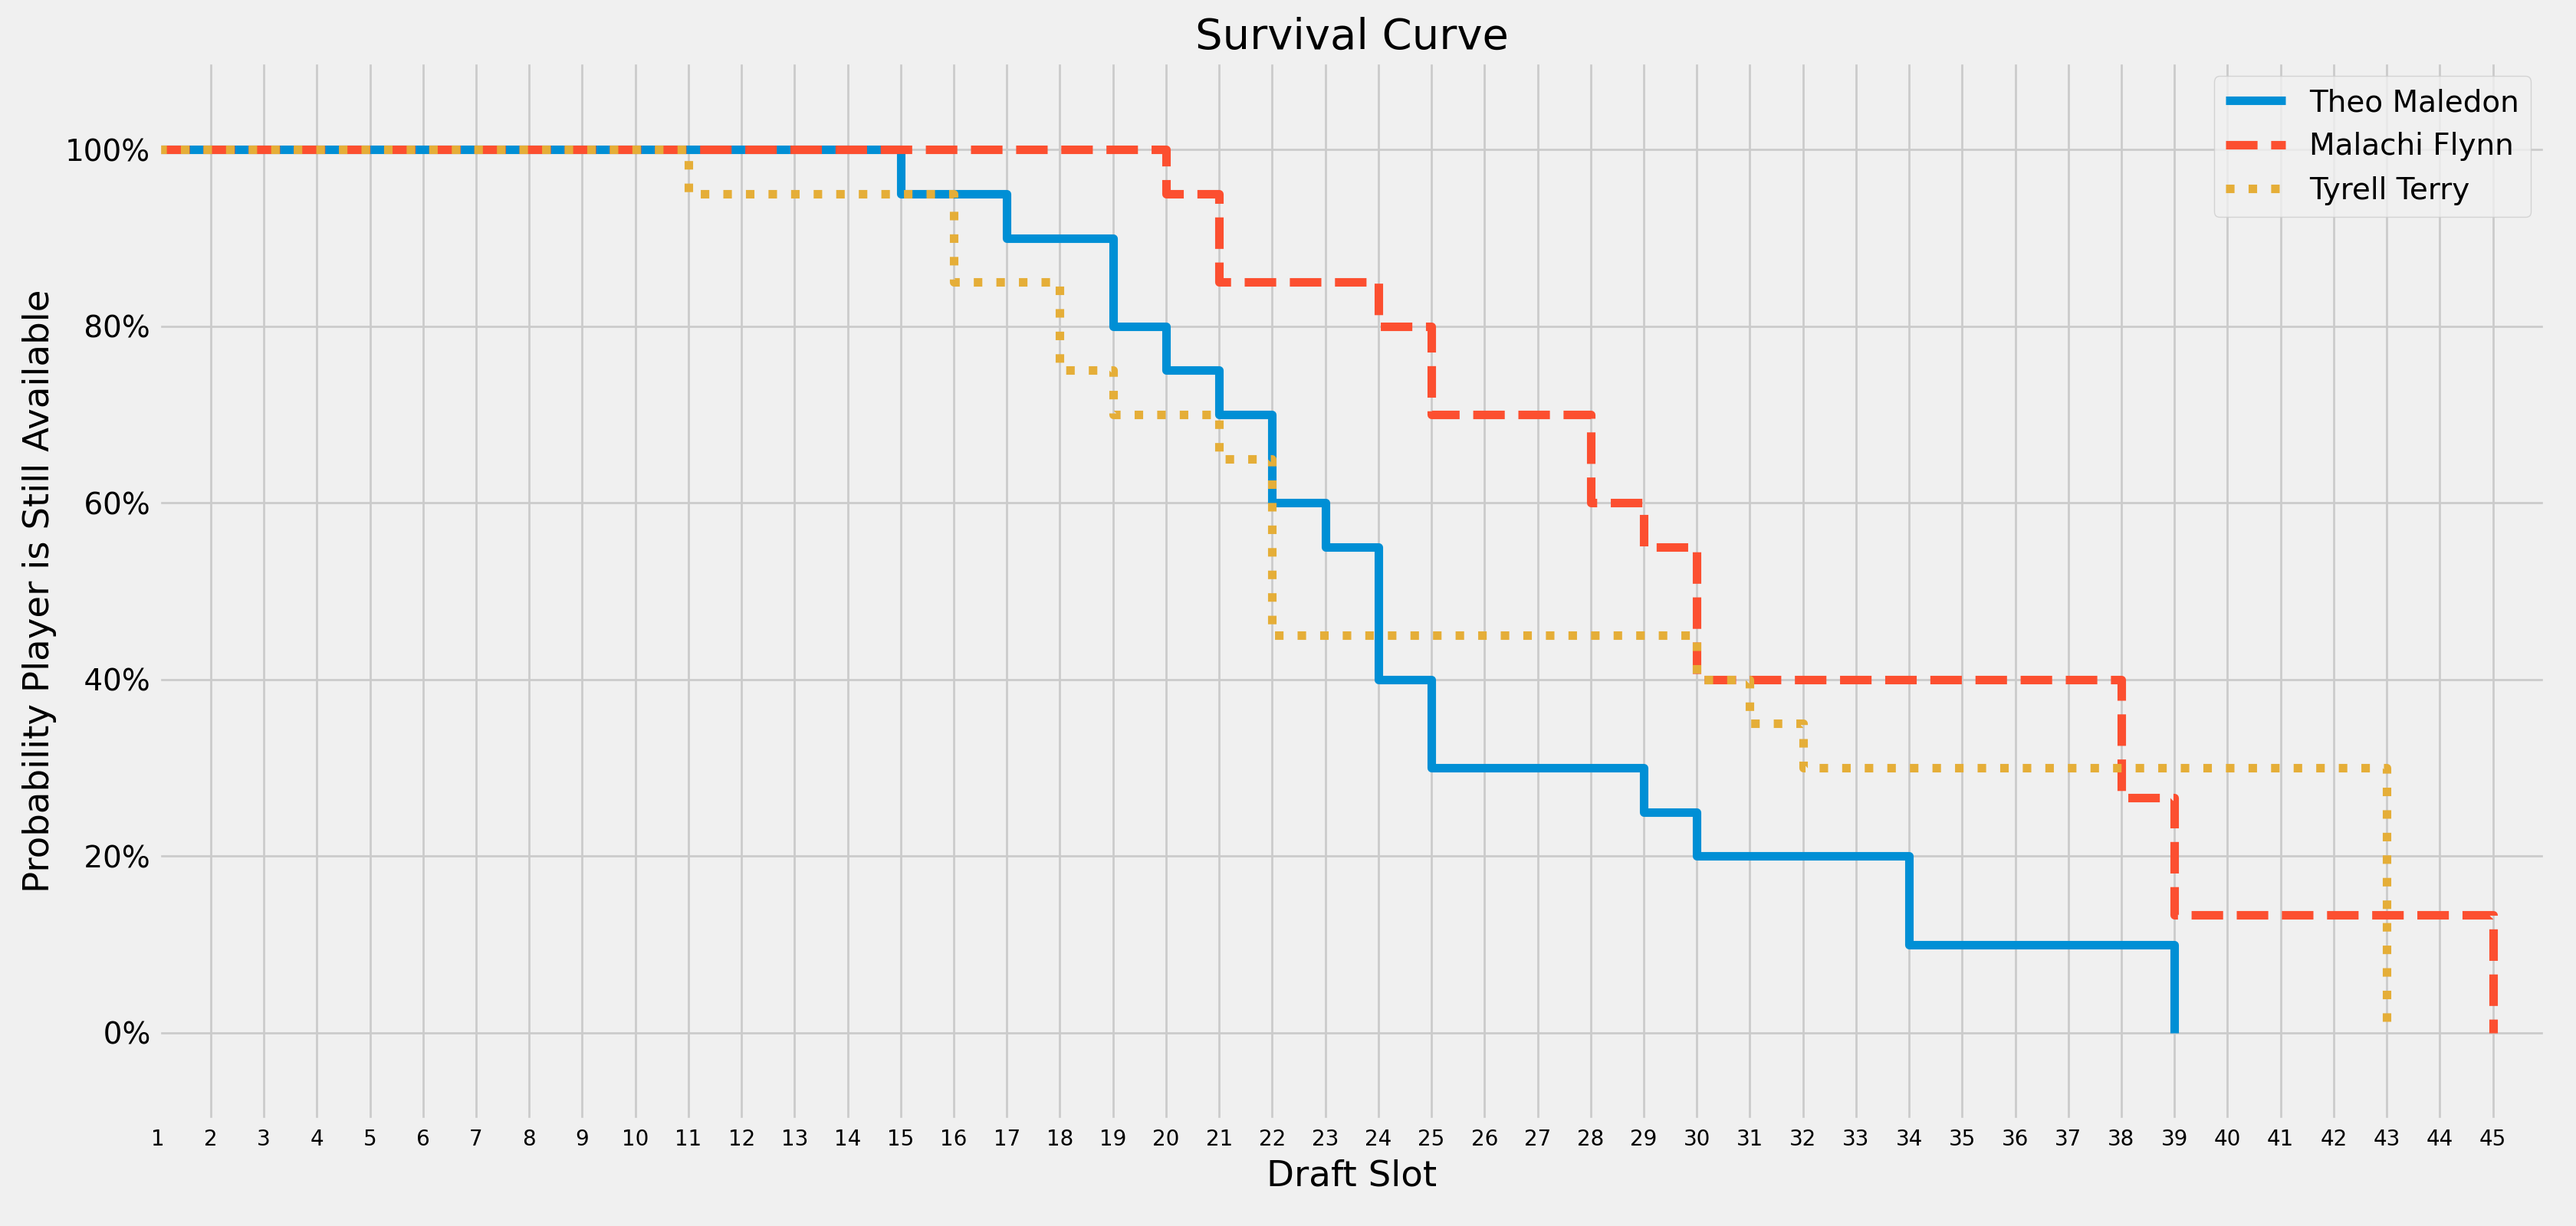
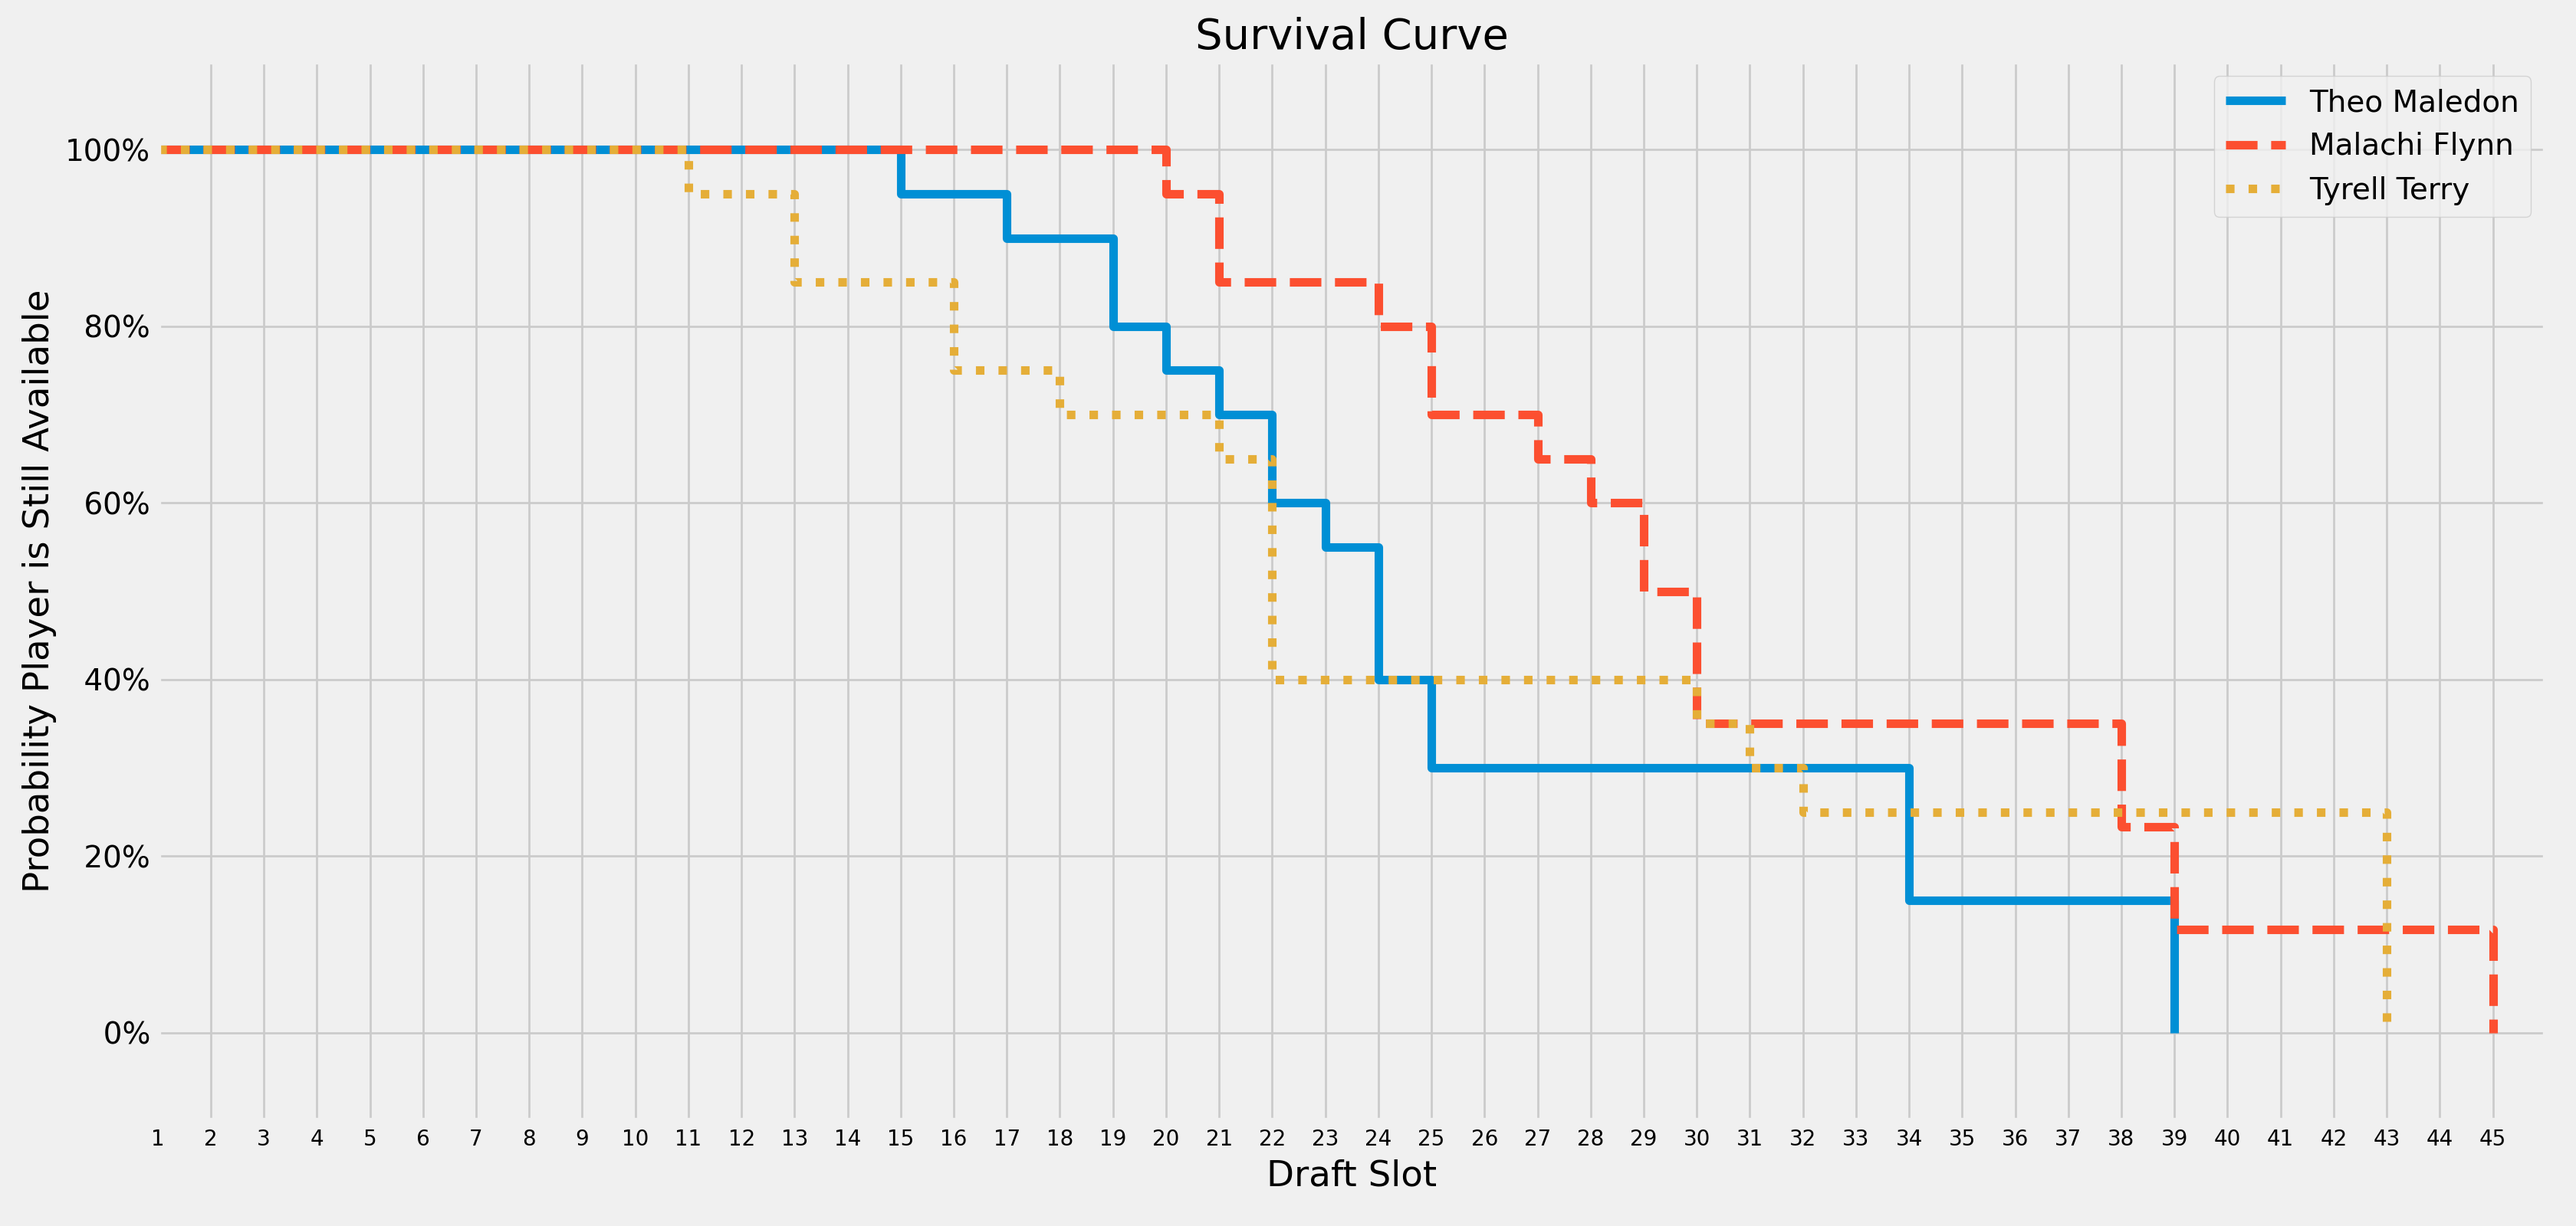
Nov 2 Update

diff --git a/scripts/survival_analysis.py b/scripts/survival_analysis.py
@@ -237,7 +237,7 @@ if __name__=='__main__':
     # Read in individual mock drafts
     babcock_hoops_df = pd.read_csv('../data/babcock_hoops.csv')
     bryan_kalbrosky_df = pd.read_csv('../data/bryan_kalbrosky.csv')
-    chad_ford_df = pd.read_csv('../data/chad_ford.csv')
+    chris_foresberg_df = pd.read_csv('../data/chris_foresberg.csv')
     chris_stone_df = pd.read_csv('../data/chris_stone.csv')
     danny_cunningham_df = pd.read_csv('../data/danny_cunningham.csv')
     gary_parrish_df = pd.read_csv('../data/gary_parrish.csv')
@@ -257,7 +257,7 @@ if __name__=='__main__':
     tankathon_df = pd.read_csv('../data/tankathon.csv')
 
     # Pre-process individual mock drafts to match names
-    mock_draft_list = [babcock_hoops_df, bryan_kalbrosky_df, chad_ford_df,
+    mock_draft_list = [babcock_hoops_df, bryan_kalbrosky_df, chris_foresberg_df,
                        chris_stone_df, danny_cunningham_df, gary_parrish_df,
                        james_ham_df, jeff_goodman_df, jeremy_woo_df,
                        jonathan_givony_df, jonathan_wasserman_df, kevin_oconnor_df,
@@ -325,7 +325,7 @@ if __name__=='__main__':
                                             index=False)
 
     # Plot an individual player's survival curve
-    plot_player('Anthony Edwards', melt_df, save=False)
+    # plot_player('Anthony Edwards', melt_df, save=False)
 
     # Save all player survival curves
     for player in melt_df['player'].unique():

diff --git a/readme.md b/readme.md
@@ -1,11 +1,11 @@
 <center> <h1>NBA Draft Survival Analysis</h1> </center>
-<center> <h3>Updated October 26, 2020</h3> </center>
+<center> <h3>Updated November 2, 2020</h3> </center>
 
 ---
 #### Motivation
 In preparation for the 2020 NBA Draft, I wanted to analyze when each prospect was likely to be selected. Compiling 20 mock drafts from various draft analysts, I created a survival analysis which calculated the probability of each prospect being available at each draft slot.
 
-As an example, the following plot illustrates the probability that Anthony Edwards is available at each draft slot. Moving from left to right on the x-axis, we observe that based on the compiled mock drafts there is ~55% probability Edwards is available at pick number 2 and ~40% probability he is available at pick number 3.
+As an example, the following plot illustrates the probability that Anthony Edwards is available at each draft slot. Moving from left to right on the x-axis, we observe that based on the compiled mock drafts there is ~55% probability Edwards is available at pick number 2 and ~35% probability he is available at pick number 3.
 
 <div style="text-align:center"><img src='plots/players/anthony_edwards.png' width=70%></div>
 
@@ -24,7 +24,7 @@ Each player's survival curve is based on information compiled from 20 mock draft
 |---|---|---|---|
 | Babcock Hoops  | Babcock Hoops  | October 5  | [Link](https://www.babcockhoops.com/mockdraft)  |
 | Bryan Kalbrosky  | Rookie Wire  | October 22  | [Link](https://therookiewire.usatoday.com/lists/2020-nba-mock-draft-all-60-picks-post-combine/)  |
-| Chad Ford  | NBA Big Board  | October 21  | [Link](https://nbabigboard.com/)  |
+| Chad Forsberg  | NBC Sports  | October 29  | [Link](https://www.nbcsports.com/boston/celtics/2020-nba-mock-draft-90-best-players-available-fit-team-needs)  |
 | Chris Stone  | Sporting News  | March 24  | [Link](https://www.sportingnews.com/us/nba/news/nba-mock-draft-2020-warriors-pick-timberwolves-lamelo-ball/178cr8zivu85e1qdtavgxp9cc2)  |
 | Danny Cunningham  | Complex  | October 12  | [Link](https://www.complex.com/sports/nba-mock-draft-predictions-post-nba-finals/?utm_campaign=sportstw&utm_source=twitter.com&utm_medium=social)  |
 | Gary Parrish  | CBS Sports  | October 9  | [Link](https://www.cbssports.com/nba/draft/mock-draft/)  |
@@ -33,33 +33,33 @@ Each player's survival curve is based on information compiled from 20 mock draft
 | Jeremy Woo  | Sports Illustrated  | October 14  | [Link](https://www.si.com/nba/2020/10/14/nba-mock-draft-projections-post-finals)  |
 | Jonathan Givony  | ESPN  | August 20  | [Link](https://www.espn.com/nba/insider/story/_/id/29695731/nba-mock-draft-projected-picks-big-lottery-winners)  |
 | Jonathan Wasserman  | Bleacher Report  | October 21  | [Link](https://bleacherreport.com/articles/2914096-2020-nba-mock-draft-3-trades-that-would-turn-the-lottery-upside-down)  |
-| Kevin O'Connor  | The Ringer  | October 14  | [Link](https://nbadraft.theringer.com/)  |
+| Kevin O'Connor  | The Ringer  | October 27  | [Link](https://nbadraft.theringer.com/)  |
 | Krysten Peek  | Yahoo Sports  | October 15  | [Link](https://sports.yahoo.com/2020-nba-mock-draft-50-la-melo-moves-to-no-1-132728170.html)  |
 | Kyle Boone  | CBS Sports  | October 21  | [Link](https://www.cbssports.com/nba/draft/mock-draft/)  |
-| NBAdraftnet | NBAdraftnet | September 16 | [Link](https://www.nbadraft.net/nba-mock-drafts/) |
+| NBAdraftnet | NBAdraftnet | October 19 | [Link](https://www.nbadraft.net/nba-mock-drafts/) |
 | NetScouts  | NetScouts  | October 20  | [Link](https://netscoutsbasketball.com/scouting/2020-nba-mock-draft/)  |
 | Ricky O'Donnell  | SB Nation  | August 20  | [Link](https://www.sbnation.com/nba/2020/8/20/21374098/nba-mock-draft-2020-lottery-order-timberwolves-warriors-bulls)  |
 | Sam Veceine  | The Athletic  | October 13  | [Link](https://theathletic.com/2128239/2020/10/13/lamelo-ball-over-james-wiseman-at-no-1-in-2020-nba-mock-draft-version-8-0/)  |
-| Scott Gleeson  | USA Today  | August 20  | [Link](https://www.usatoday.com/story/sports/nba/draft/2020/08/20/nba-mock-draft-post-lottery-timberwolves-top-pick/3402893001/)  |
+| Scott Gleeson  | USA Today  | October 29  | [Link](https://www.usatoday.com/story/sports/college/iowa-state/cyclone-insider/2020/10/29/nba-mock-draft-lamelo-ball-anthony-edwards-first-pick-tyrese-haliburton/6068784002/)  |
 | Tankathon  | Tankathon  | October 24  | [Link](http://www.tankathon.com/mock_draft)  |
 
 #### Consensus Top-3 Picks
 
-Based on the average draft slot across all mock drafts, LaMelo Ball (1.8), Anthony Edwards (1.9), and James Wiseman (3.3) are the consensus top three picks. Their respective survival curves are plotted below. At this point in time Ball and Edwards are the heavy favorites to go in the first two picks. Wiseman is ranked substantially lower in a few mocks resulting in a low probability of him falling to the eighth pick.
+Based on the average draft slot across all mock drafts Anthony Edwards (1.9), LaMelo Ball (2.0), and James Wiseman (3.6) are the consensus top three picks. Their respective survival curves are plotted below. At this point in time Edwards and Ball are the heavy favorites to go in the first two picks. Wiseman is ranked substantially lower in a few mocks resulting in a low probability of him falling to the ninth pick.
 
 <div style="text-align:center"><img src='plots/top_3.png' width=90%></div>
 
 #### Consensus Top-10 Picks
 
-In similar fashion, here are the survival curves of the consensus top-10 picks. Three of the top ten have a non-zero chance of falling out of the lottery according to the mock drafts. One thing I have my eye on is any future movement in Devin Vassell's curve after the suspected [change to his shooting form](https://twitter.com/Joe_Casey1/status/1316803378182262784?s=20) that have [some analysts questioning their opinion of him](https://twitter.com/johnhollinger/status/1316794770220556288?s=20). There's yet to be any evidence that has occurred just yet.
+In similar fashion, here are the survival curves of the consensus top-10 picks. Three of the top ten have a non-zero chance of falling out of the lottery according to the mock drafts.
 
 <div style="text-align:center"><img src='plots/top_10.png' width=90%></div>
 
 #### Case Studies
 
-At this point the mock drafts have LaMelo Ball as the most likely first overall pick just ahead of Anthony Edwards. There's ~45% probability he is available at the number two pick and ~35% chance he is available at the third pick. Based on the mocks there is no chance he falls to the 5th pick.
+At this point the mock drafts have Anthony Edwards as the most likely first overall pick just ahead of LaMelo Ball. There's ~55% probability he is available at the number two pick and ~35% chance he is available at the third pick. Based on the mocks there is no chance he falls to the 4th pick.
 
-<div style="text-align:center"><img src='plots/players/lamelo_ball.png' width=90%></div>
+<div style="text-align:center"><img src='plots/players/anthony_edwards.png' width=90%></div>
 
 <br>
 
@@ -75,7 +75,7 @@ Kenyon Martin Jr. is a player on the fringe of being drafted. The mock drafts ha
 
 <br>
 
-Hopefully this analysis provides additional information for teams on when targeted players might be available during the draft. As a final example, if you're a hypothetical team targeting a point guard outside of the lottery you can compare survival curves to better predict when a player will be available. In this case, if you value Maledon over Flynn and Terry you'll need to be more aggressive in moving up to get him as he's likely to be gone before the other two.
+Hopefully this analysis provides additional information for teams on when targeted players might be available during the draft. As a final example, if you're a hypothetical team targeting a point guard outside of the lottery you can compare survival curves to better predict when a player will be available. In this case, if you value Terry over Maledon and Flynn you'll need to be more aggressive in moving up to get him as he's likely to be gone before the other two.
 
 <br>
 
